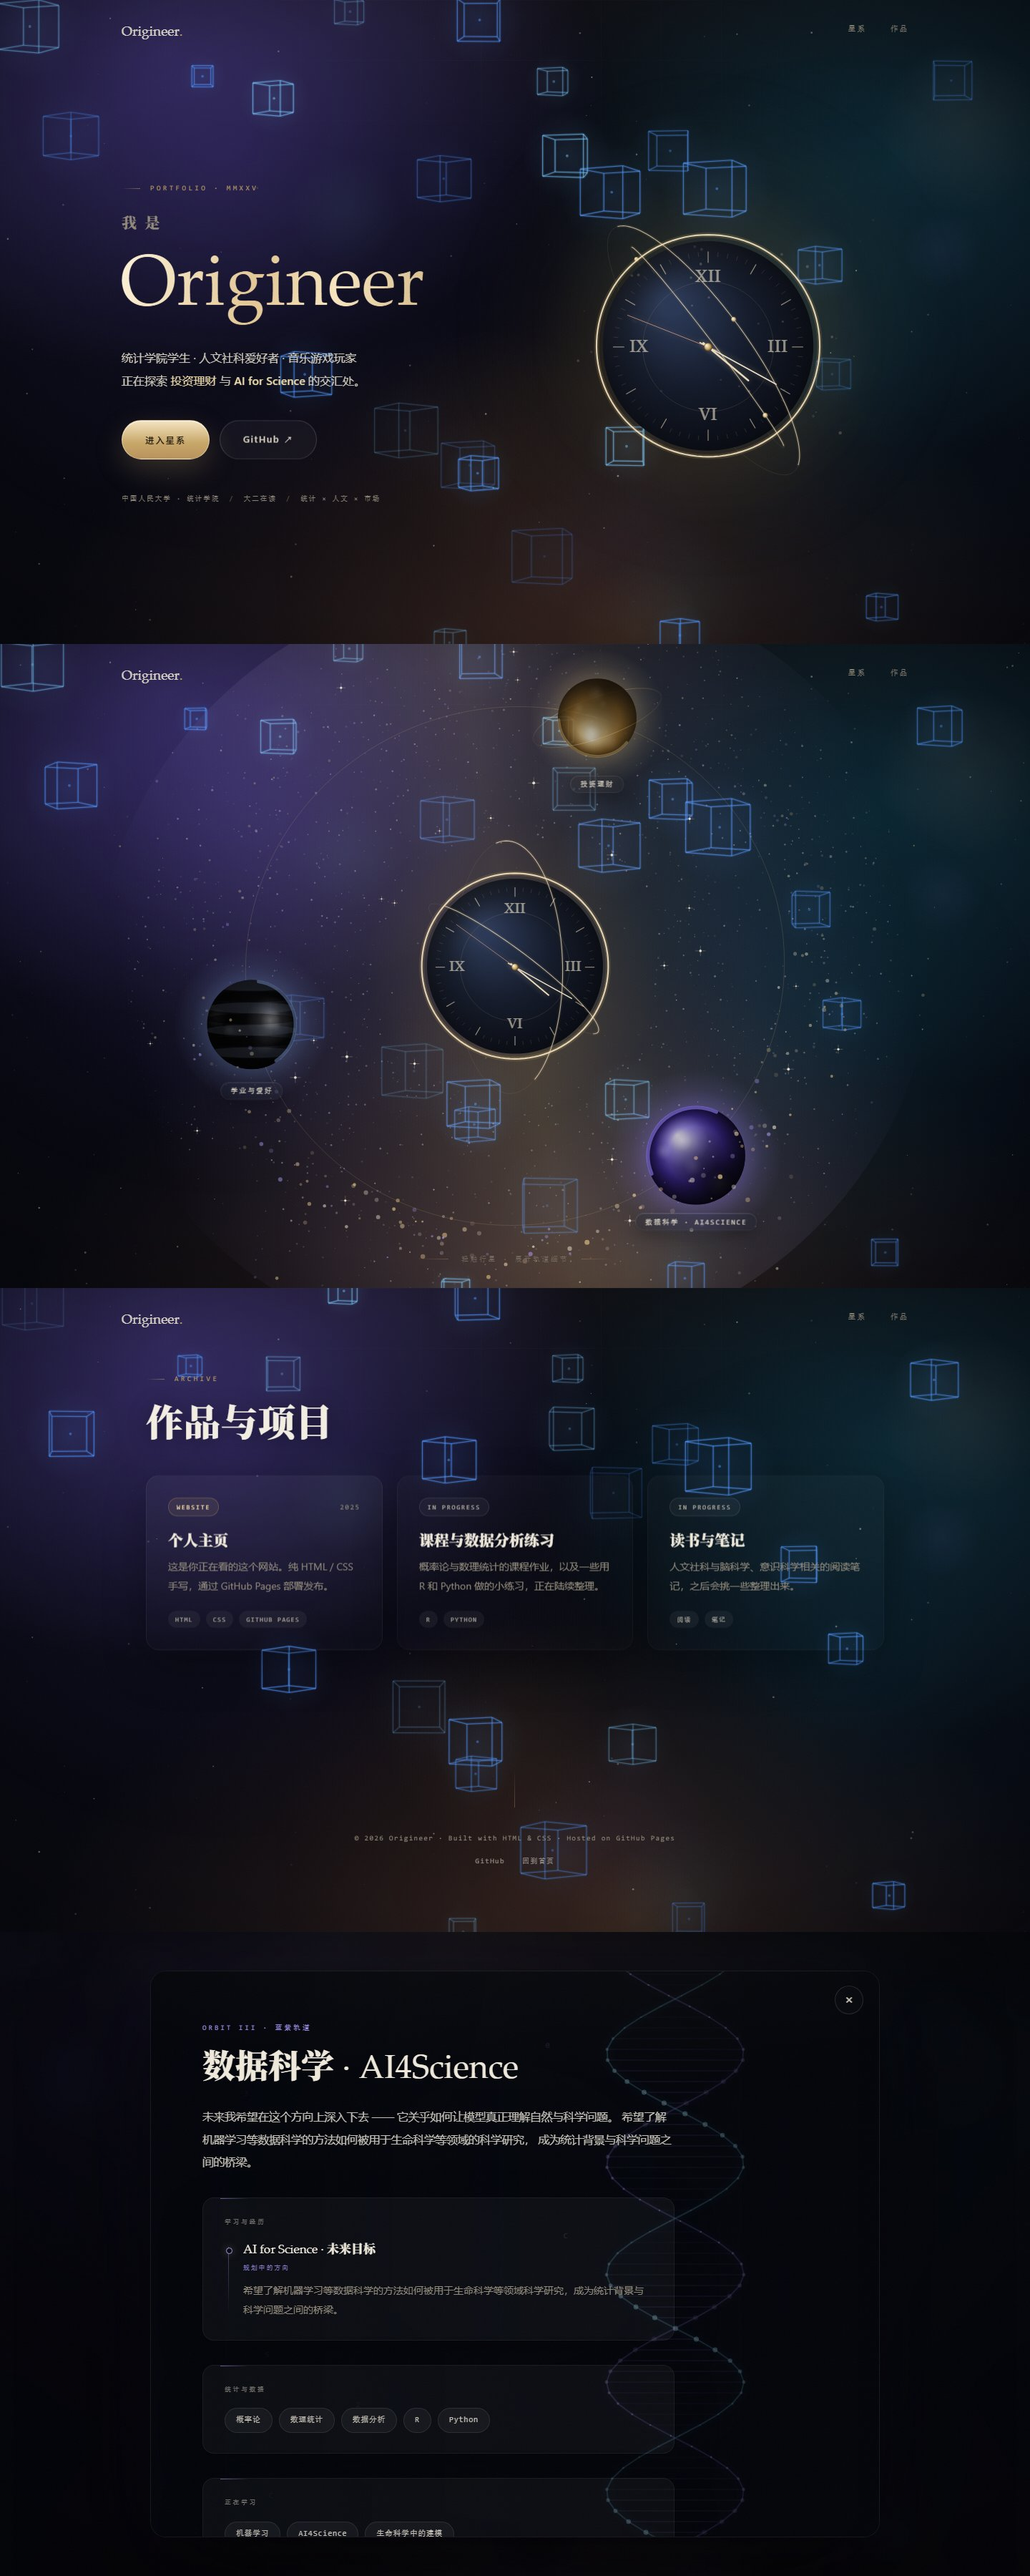
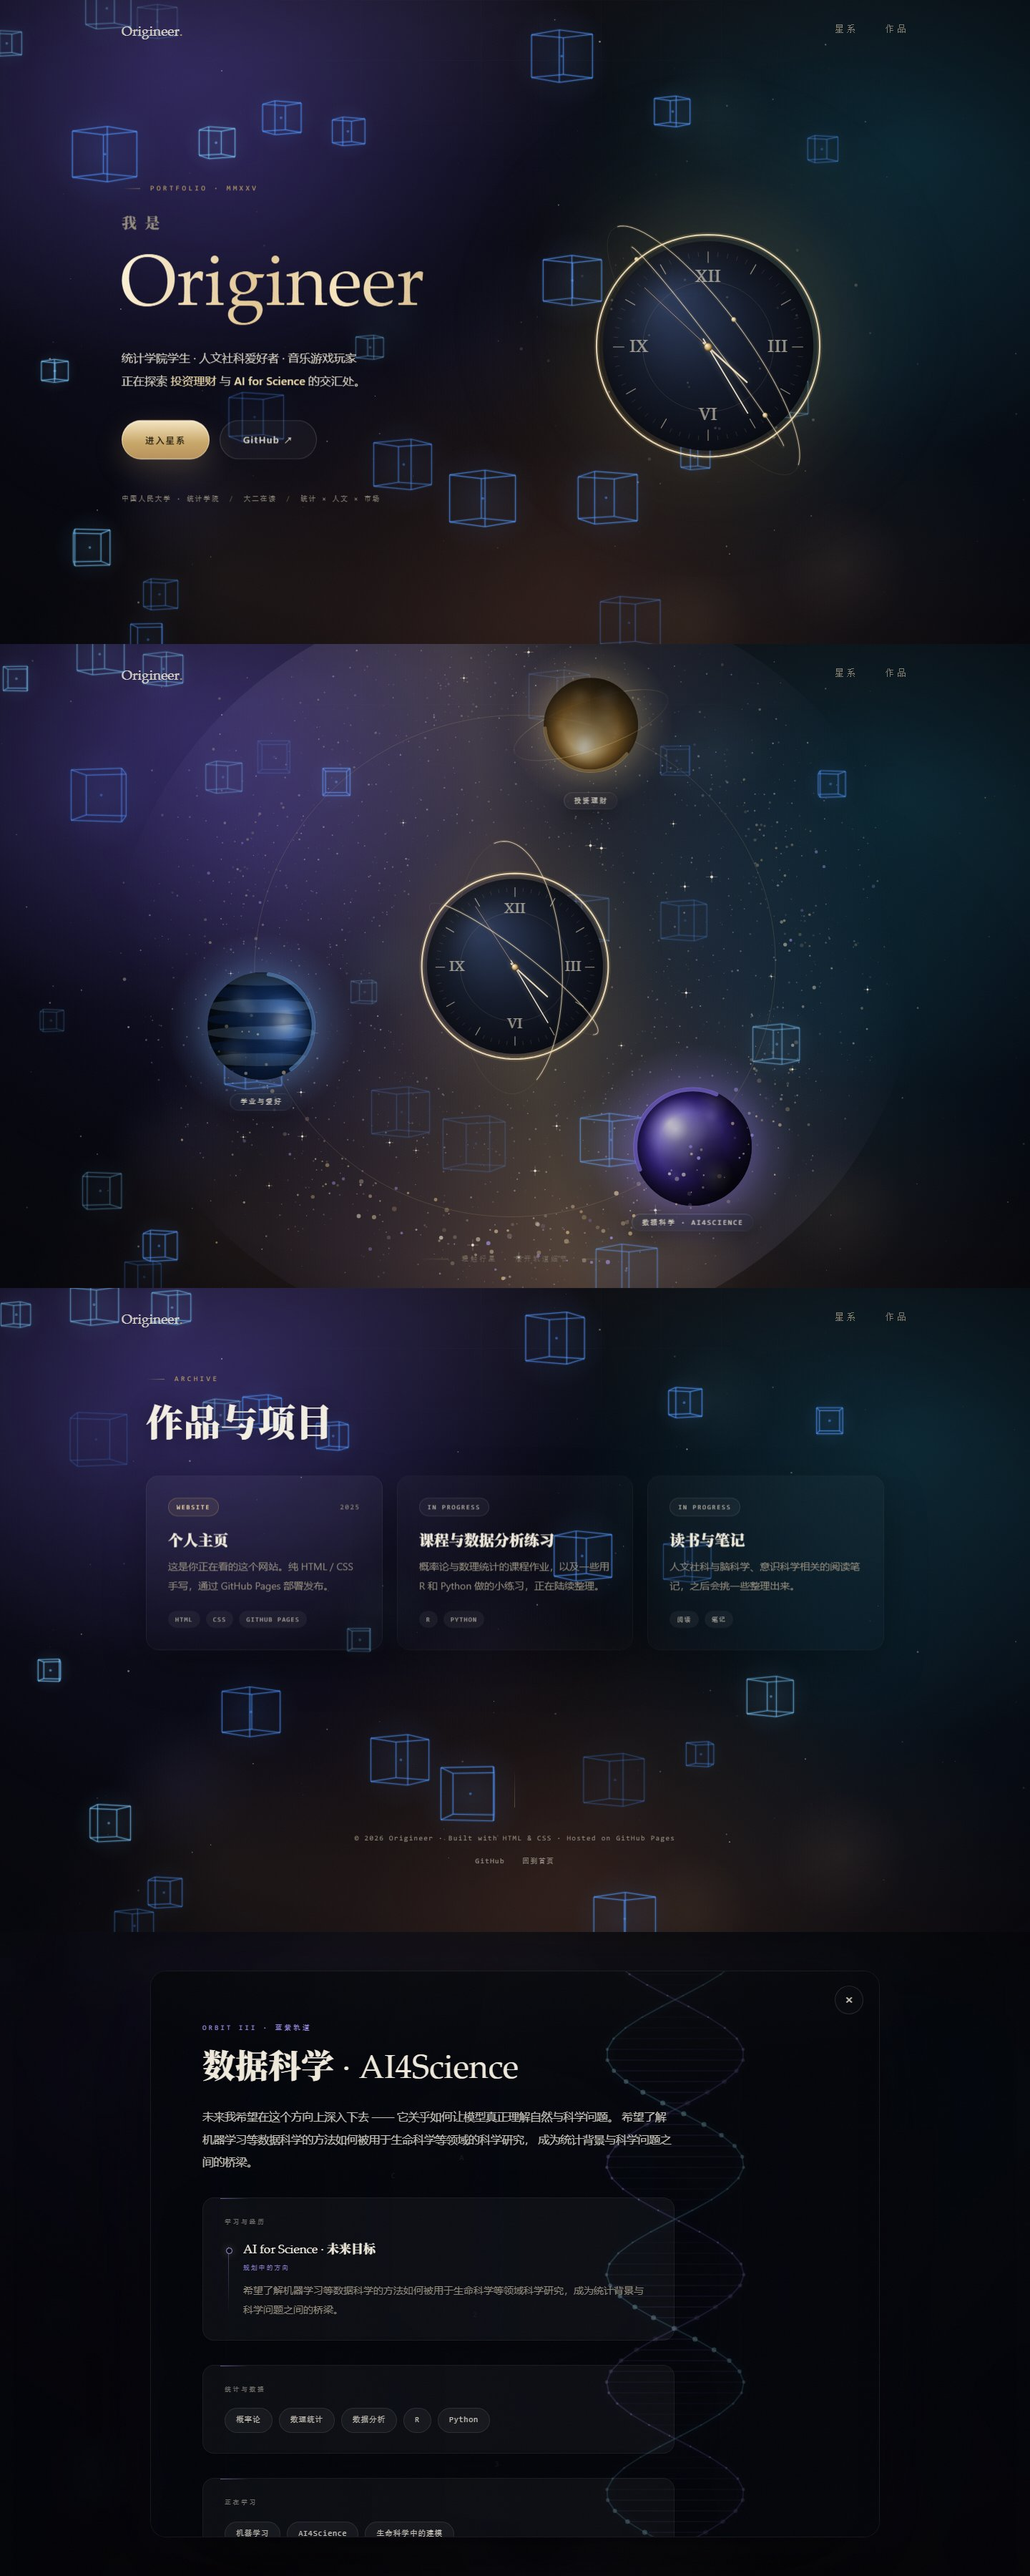
style: 行星再放大、导航字号加大、黑灰星球改为蓝色
- 三颗行星半径 60 → 72（视觉直径约 158px），点击热区 164px
- 轨道半径相应收一点，保证放大后仍不被画布裁切
- 顶部导航「星系 / 作品」字号 10.5 → 13px，间距 34 → 38px
- 学业与爱好那颗球从黑灰改为蓝色：亮蓝高光、深蓝暗面、冷调轮廓光，条带同步换色
- 同步更新该行星的 aria 标签与详情页小标题（蓝色轨道）
- 更新预览图

diff --git a/script.js b/script.js
@@ -582,15 +582,15 @@
 
   const PLANETS = [
     {
-      key: 'data', r: 60,
+      key: 'data', r: 72,
       lit: '#efe9ff', mid: '#9a86ff', dark: '#4a30b8', edge: '#1a0f45', glow: '150, 130, 255'
     },
     {
-      key: 'self', r: 60, bands: true,
-      lit: '#6a6a72', mid: '#1b1b20', dark: '#08080a', edge: '#000000', glow: '120, 150, 210'
+      key: 'self', r: 72, bands: true,
+      lit: '#a8d0ff', mid: '#2f6fd0', dark: '#123a78', edge: '#04101f', glow: '120, 180, 255'
     },
     {
-      key: 'finance', r: 60, ring: true,
+      key: 'finance', r: 72, ring: true,
       lit: '#fff6d8', mid: '#f0c979', dark: '#a9711f', edge: '#3d2606', glow: '240, 205, 138'
     }
   ];
@@ -633,7 +633,7 @@
 
       const RATIO = 0.96;
       const tiltK = Math.abs(Math.cos(TILT)) + RATIO * Math.abs(Math.sin(TILT));
-      this.A = Math.min((h * 0.5 - 88) / RATIO, (w * 0.5 - 78) / tiltK);
+      this.A = Math.min((h * 0.5 - 100) / RATIO, (w * 0.5 - 84) / tiltK);
       this.B = this.A * RATIO;
 
       this.seed();
@@ -949,7 +949,7 @@
           const curve = Math.sin((i / 8) * Math.PI) * r * 0.1;
           ctx.beginPath();
           ctx.ellipse(x, yy, r * 1.05, hgt, 0, 0, TAU);
-          ctx.fillStyle = i % 2 ? 'rgba(0, 0, 0, 0.7)' : 'rgba(170, 190, 225, 0.10)';
+          ctx.fillStyle = i % 2 ? 'rgba(6, 26, 58, 0.55)' : 'rgba(170, 215, 255, 0.16)';
           ctx.fill();
           void curve;
         }

diff --git a/style.css b/style.css
@@ -153,11 +153,11 @@ h1, h2, h3, h4 { line-height: 1.3; font-weight: 500; }
 .logo { font-family: var(--serif); font-size: 19px; color: var(--ivory); }
 .logo .dot { color: var(--brass); }
 
-.nav-links { display: flex; gap: 34px; }
+.nav-links { display: flex; gap: 38px; }
 .nav-links a {
   font-family: var(--mono);
-  font-size: 10.5px;
-  letter-spacing: 0.2em;
+  font-size: 13px;
+  letter-spacing: 0.18em;
   text-transform: uppercase;
   color: var(--muted);
   position: relative;
@@ -416,7 +416,7 @@ h1, h2, h3, h4 { line-height: 1.3; font-weight: 500; }
 
 .planet--self,
 .planet--finance,
-.planet--data { width: 138px; height: 138px; }
+.planet--data { width: 164px; height: 164px; }
 
 .galaxy-hint {
   position: absolute;
@@ -816,7 +816,7 @@ h1, h2, h3, h4 { line-height: 1.3; font-weight: 500; }
   .solar { height: clamp(430px, 60vh, 560px); }
   .planet--self,
   .planet--finance,
-  .planet--data { width: 96px; height: 96px; }
+  .planet--data { width: 112px; height: 112px; }
   .planet-label { font-size: 8.5px; letter-spacing: 0.12em; padding: 3px 8px; margin-top: 9px; }
 
   .section { padding-top: 84px; }

diff --git a/index.html b/index.html
@@ -60,7 +60,7 @@
         <canvas class="galaxy-canvas" id="galaxy-canvas" aria-hidden="true"></canvas>
 
         <button class="planet planet--self" type="button" data-planet="self"
-                aria-label="学业与爱好：黑色行星">
+                aria-label="学业与爱好：蓝色行星">
           <span class="planet-label">学业与爱好</span>
         </button>
 
@@ -139,7 +139,7 @@
   <!-- 黑色行星：学业与爱好 -->
   <template id="tpl-self">
     <div class="planet-view" data-mode="notes" data-theme="self">
-      <p class="pv-kicker">Orbit I · 黑色轨道</p>
+      <p class="pv-kicker">Orbit I · 蓝色轨道</p>
       <h2 class="pv-title" id="modal-title">学业与爱好</h2>
       <p class="pv-lead">
         你好，我是 Origineer。目前就读于 <strong>中国人民大学统计学院</strong>，大二在读。
